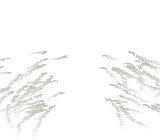
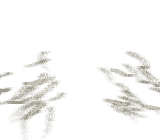
Art: cave-in rubble pass 2 - plain stone slabs (<=2 knotwork pieces near), sloped pile outline on dark corridor, brighter front blocks via brighter wall colours; softer wide low-alpha dust smears; fx atlas repacked

diff --git a/scripts/build_cave_in.py b/scripts/build_cave_in.py
@@ -15,7 +15,7 @@ BLOCKS={'cap':[(0,0,32,24),(128,0,160,24)],
  'panel':[(34,26,80,71),(80,26,126,71),(34,71,80,116),(80,71,126,116)],
  'brick':[(32+12*i,114,44+12*i,126) for i in range(8)],
  'base':[(0,125,40,140),(40,125,80,140),(80,125,120,140),(120,125,160,140)]}
-def build(dist,seed):
+def build(dist,seed,fk=1.0,save=True):
     src=np.array(Image.open(D+f'wall_front_{dist}.png').convert('RGB')).astype(int)
     H,W=src.shape[:2]; s=W/160; r=random.Random(seed)
     P=np.unique(src.reshape(-1,3),axis=0); Pl=P.sum(1)
@@ -45,7 +45,7 @@ def build(dist,seed):
             elif side==1: m[h-v:,i]=False
             elif side==2: m[i,:v]=False
             else: m[i,w-v:]=False
-        k=r.randrange(4); b=np.rot90(b,k); m=np.rot90(m,k)
+        k=r.choice((0,2)) if max(w,h)>1.6*min(w,h) else r.randrange(4); b=np.rot90(b,k); m=np.rot90(m,k)  # long slabs lie flat
         if r.random()<.5: b=b[:,::-1]; m=m[:,::-1]
         return b,m
     out=np.zeros_like(src); out[:]=dark
@@ -59,16 +59,20 @@ def build(dist,seed):
         ys,xs=np.nonzero(m); c=b[ys,xs]; ys=ys+y; xs=xs+x
         ok=(ys>=0)&(ys<H)&(xs>=0)&(xs<W); out[ys[ok],xs[ok]]=c[ok]
     allb=[cut(b) for v in BLOCKS.values() for b in v]
-    big=[cut(b) for k in ('panel','pillar','frieze','cap') for b in BLOCKS[k]]
-    small=[cut(b) for k in ('brick','stud','base','cap','frieze') for b in BLOCKS[k]]
-    def top(x): return H*(0.30+0.75*abs(x/W-0.5)**1.5)   # pile surface: high centre, spreads wide at the base
+    # plain stone only (bricks, base, caps, studs); knotwork limited to KNOT pieces
+    plainbig=[cut(b) for k in ('base','cap','stud') for b in BLOCKS[k]]+[cut((32,114,80,126)),cut((80,114,128,126))]
+    knot=[cut(b) for b in BLOCKS['panel'][:1]+BLOCKS['pillar'][1:2]]
+    small=[cut(b) for k in ('brick','stud','base','cap') for b in BLOCKS[k]]
+    plainall=plainbig+small
+    def top(x): return H*(0.22+1.25*abs(x/W-0.5)**1.3)   # pile surface: high centre, spreads wide at the base
     # 1) back mass: dim chunks packed edge to edge over the whole square (stone deeper in the corridor)
     y=-2
     while y<H:
         x=-r.randint(0,8); rowh=0
         while x<W:
-            b,m=chunk(r.choice(allb),.5); h,w=m.shape
-            place(b,m,x,y+r.randint(-1,1),r.uniform(.48,.6)); x+=w-r.randint(0,2); rowh=max(rowh,h)
+            b,m=chunk(r.choice(plainall),.5); h,w=m.shape
+            if y+h>top(x+w/2)-3*s: place(b,m,x,y+r.randint(-1,1),r.uniform(.3,.4))
+            x+=w-r.randint(0,2); rowh=max(rowh,h)
         y+=max(3,int(rowh*.7))
     # 2) front pile, stacked with a skyline: each chunk drops until it rests on what is below it.
     surf=np.full(W,H+int(2*s))
@@ -82,21 +86,22 @@ def build(dist,seed):
         for c in cols: surf[x+c]=min(surf[x+c],y+hi_[c])
         return True
     pieces=[]
-    for _ in range(14): pieces.append((0,chunk(r.choice(big),.55)))
-    for _ in range(40): pieces.append((1,chunk(r.choice(big),.3)))
-    for _ in range(90): pieces.append((2,chunk(r.choice(small),.35)))
+    for kb in knot[:KN[dist]]: pieces.append((0,chunk(kb,.6)))
+    for _ in range(30): pieces.append((0,chunk(r.choice(plainbig),.6)))
+    for _ in range(80): pieces.append((1,chunk(r.choice(plainbig),.35)))
+    for _ in range(160): pieces.append((2,chunk(r.choice(small),.35)))
     pieces.sort(key=lambda p:(p[0],-p[1][1].sum()))
     for tier,(b,m) in pieces:
         w=m.shape[1]
-        for _try in range(6):
+        for _try in range(12):
             x=int(r.uniform(-.15,1.0)*W-w*.3)
-            if drop(b,m,x,[1.15,1.08,1.12][tier]*r.uniform(.93,1.05)): break
+            if drop(b,m,x,fk*[1.0,.95,.98][tier]*r.uniform(.93,1.05)): break
     # 3) grit: 1-3px crumbs of wall pixels lying on the pile surface and spilled on the floor
     for _ in range(int(160*s)):
         x=r.randrange(W); g=max(1,int(r.uniform(1,2.6)*s+.4))
         y=int(min(H-1,surf[x]+r.uniform(-1,1)*s)) if r.random()<.6 else int(H-r.uniform(1,8)*s)
         sx=r.randrange(W-g); sy=r.randrange(H-g); gg=src[sy:sy+g,sx:sx+g]
-        place(gg,np.ones((g,g),bool),x,y-g+1,1.0,outline=True)
+        place(gg,np.ones((g,g),bool),x,y-g+1,fk,outline=True)
     # 6) a few irregular dark cracks between blocks (no light through)
     for _ in range(int(5+3*s)):
         x=r.uniform(.1,.9)*W; y=r.uniform(.15,.85)*H; L=int(r.uniform(5,14)*s)
@@ -110,18 +115,27 @@ def build(dist,seed):
             if r.random()<.15: dx=-dx
     # match overall brightness to the wall
     m0=src.mean(); m1=out.mean()
-    print(dist,'wall mean',round(m0,1),'rubble mean',round(m1,1))
-    # no global rescale (it flattens the depth); report the difference instead
+    if not save: return m1
     a=np.dstack([out,np.full((H,W),255)]).astype(np.uint8)
-    Image.fromarray(a,'RGBA').save(D+f'rubble_front_{dist}.png')
-for dist,seed in (('near',11),('mid',12),('far',13)): build(dist,seed)
+    Image.fromarray(a,'RGBA').save(D+f'rubble_front_{dist}.png'); return m1
+KN={'near':2,'mid':1,'far':0}
+TARGET={'near':24,'mid':18,'far':13}
+for dist,seed in (('near',11),('mid',12),('far',13)):
+    # pick the front-block brightness so the piece hits its target mean; colours are
+    # snapped to existing (brighter) wall colours, the back layer stays dim
+    lo,hi=1.0,4.0
+    for _ in range(12):
+        fk=(lo+hi)/2
+        if build(dist,seed,fk,False)<TARGET[dist]: lo=fk
+        else: hi=fk
+    m=build(dist,seed,(lo+hi)/2); print(f'{dist}: mean {m:.1f} (target {TARGET[dist]}), front gain {(lo+hi)/2:.2f}')
 # dust burst, 160x140: stringy smeared wisps drifting down/out, dust.png colours + 17-step alpha
 DUST=[(145,141,125),(188,184,168)]
 os.makedirs('public/proto3d/fx',exist_ok=True)
 r=random.Random(5)
 # each wisp is a random-walk polyline from the collapse line, pushed out sideways and down
 wisps=[]
-for _ in range(64):
+for _ in range(40):
     x=r.uniform(20,140); y=r.uniform(40,95); side=1 if x>80 else -1
     wisps.append(dict(x=x,y=y,vx=side*r.uniform(.4,1.6),vy=r.uniform(.2,1.0),
         ang=r.uniform(-.6,.6)+(0 if side>0 else math.pi),L=r.uniform(14,40),hi=r.random()<.3,seed=r.random()))
@@ -137,13 +151,13 @@ def frame(f):
         for i in range(n):
             ang+=rr.uniform(-.35,.35); x+=math.cos(ang); y+=math.sin(ang)*.5+.25+t*.3
             fade=(1-i/n)**.7
-            th=1+int(rr.random()<.35)   # thin strings, occasional 2px smear
+            th=2+int(t*3)   # thin strings, occasional 2px smear
             for k in range(th):
-                for j in range(-1-int(t*2),2+int(t*2)):   # horizontal smear widens over time
+                for j in range(-2-int(t*5),3+int(t*5)):   # horizontal smear widens over time
                     xi=int(x+j); yi=int(y+k)
-                    if 0<=xi<160 and 0<=yi<140 and rr.random()<.75-abs(j)*.12:
-                        a=fade*life*(1-abs(j)*.25)*(0.85 if w['hi'] else 0.6)
-                        acc[yi,xi]=max(acc[yi,xi],a)
+                    if 0<=xi<160 and 0<=yi<140 and rr.random()<.85-abs(j)*.07:
+                        a=fade*life*max(0,1-abs(j)*.12)*(0.5 if w['hi'] else 0.36)
+                        acc[yi,xi]=min(1,acc[yi,xi]+a*.5)
                         if w['hi'] and abs(j)<1 and fade>.5: hi[yi,xi]=True
     a=(np.clip(acc,0,221/255)*255/17).astype(int)*17
     im=np.zeros((140,160,4),np.uint8)
